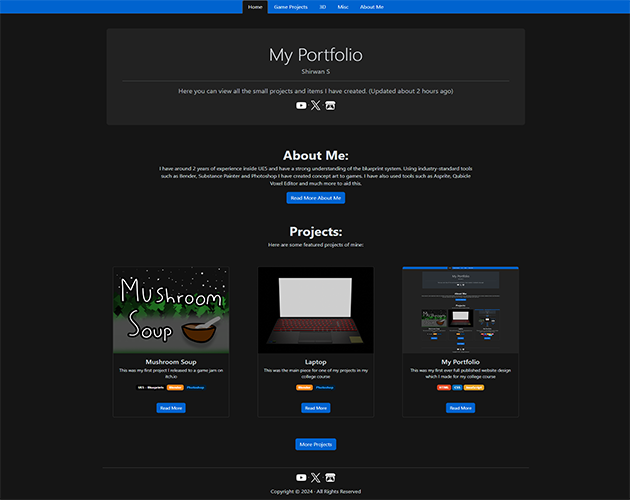
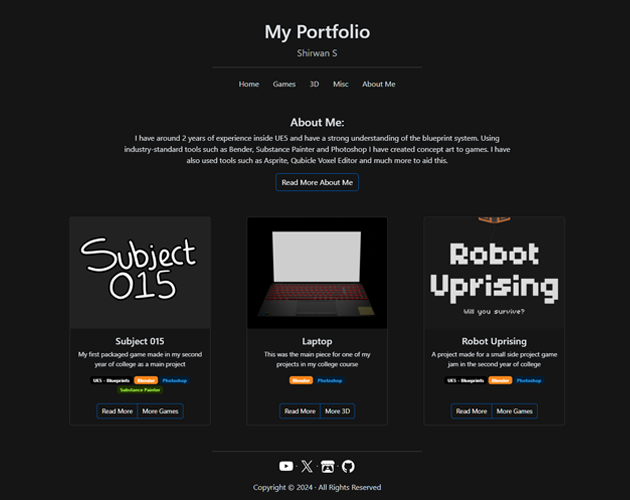
Added a new entry into MyPortfolio.html

diff --git a/Misc/MyPortfolio.html b/Misc/MyPortfolio.html
@@ -4,7 +4,7 @@
 		<meta charset="utf-8">
 		<meta http-equiv="X-UA-Compatible" content="IE=edge">
 		<meta name="viewport" content="width=device-width, initial-scale=1">
-		<title>My Portoflio | Portfolio</title>
+		<title>My Portfolio | Portfolio</title>
 		<link rel="icon" type="image/x-icon" href="/images/Icon/Icon.ico">
 		<!-- Bootstrap -->
 		<link href="/css/bootstrap.css" rel="stylesheet">
@@ -43,7 +43,7 @@
 					<div class="p-5 text-center bg-body-tertiary rounded-3">
 						<h3><b>The Start</b></h3>
 						<br>
-						<p>I had to create my portfolio for my first college project of my 2nd year. So I decided instead of having multiple portolios on sites such as Sketchfab, Itch.io or DeviantArt. Why can't just create my own portfolio with a website. This is where I picked up HTML, CSS, JavaScript and Dreamweaver skills.</p>
+						<p>I had to create my portfolio for my first college project of my 2nd year. So I decided instead of having multiple portfolios on sites such as Sketchfab, Itch.io or DeviantArt. Why can't just create my own portfolio with a website. This is where I picked up HTML, CSS, JavaScript and Dreamweaver skills.</p>
 						<br>
 						<img src="/images/MyPortfolio.png" class="img-fluid" alt="My Portfolio">
 					</div>
@@ -61,9 +61,18 @@
 					<div class="p-5 text-center bg-body-tertiary rounded-3">
 						<h3><b>Round Three</b></h3>
 						<br>
-						<p>I updated the website with new content and a new colour scheme. I added some animations to the buttons to give the webstie some life rather than a static website. I also added a filter, so you can use the filter to show projects built in UE5 or with Blender and such.</p>
+						<p>I updated the website with new content and a new colour scheme. I added some animations to the buttons to give the website some life rather than a static website. I also added a filter, so you can use the filter to show projects built in UE5 or with Blender and such.</p>
 						<br>
 						<img src="/images/MyPortfolioRound3.png" class="img-fluid" alt="My Portfolio">
+					</div>
+				</div>
+				<div class="container my-5">
+					<div class="p-5 text-center bg-body-tertiary rounded-3">
+						<h3><b>Round Four</b></h3>
+						<br>
+						<p>I added a fade animation to play when switching tabs, I recreated the nav bar to be a slim low profile one. I then added an animation to the hr tags to make them spread out from the center. </p>
+						<br>
+						<img src="/images/MyPortfolioRound4.png" class="img-fluid" alt="My Portfolio">
 					</div>
 				</div>
 			</div>
@@ -71,6 +80,7 @@
 			<footer>
 				<div class="row text-center justify-content-md-center">
 					<p><a href="https://www.youtube.com/@AnEvilBrit" class="btn youtube" target="_blank" rel="noopener noreferrer"></a> &middot; <a href="https://twitter.com/AnEvilBrit" class="btn x" target="_blank" rel="noopener noreferrer"></a> &middot; <a href="https://anevilbrit.itch.io/" class="btn itch" target="_blank" rel="noopener noreferrer"></a> &middot; <a href="https://anevilbrit.itch.io/" class="btn github" target="_blank" rel="noopener noreferrer"></a></p>
+					<p>Copyright &copy; 2024 &middot; All Rights Reserved</p>
 				</div>
 			</footer>
 		</div>
